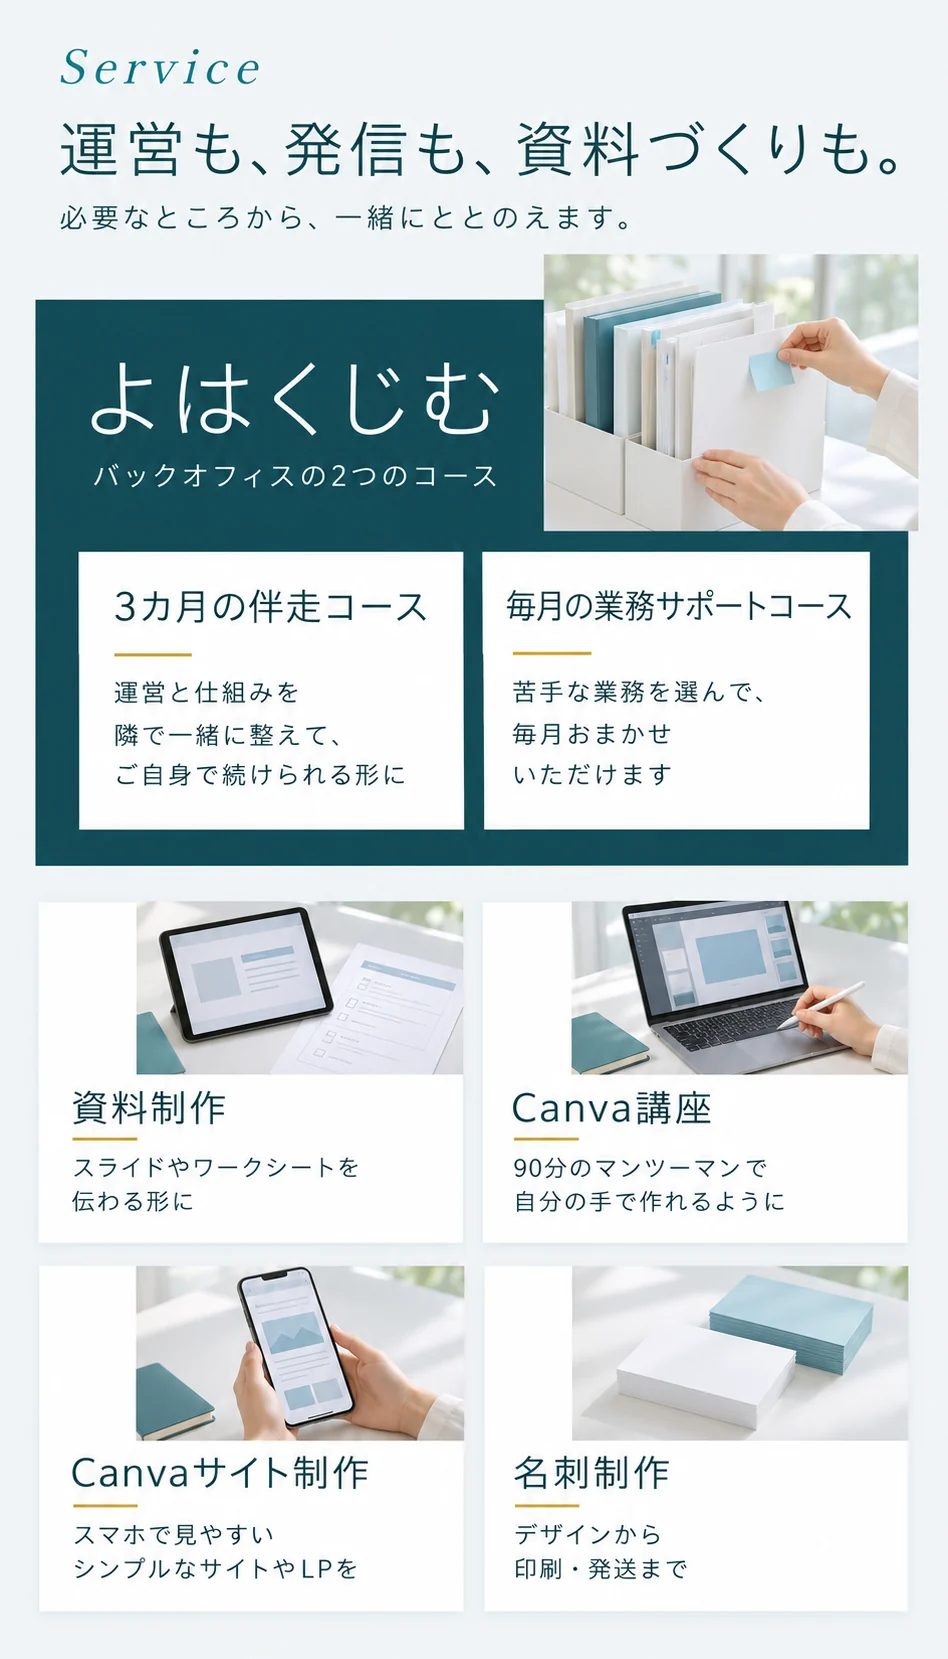
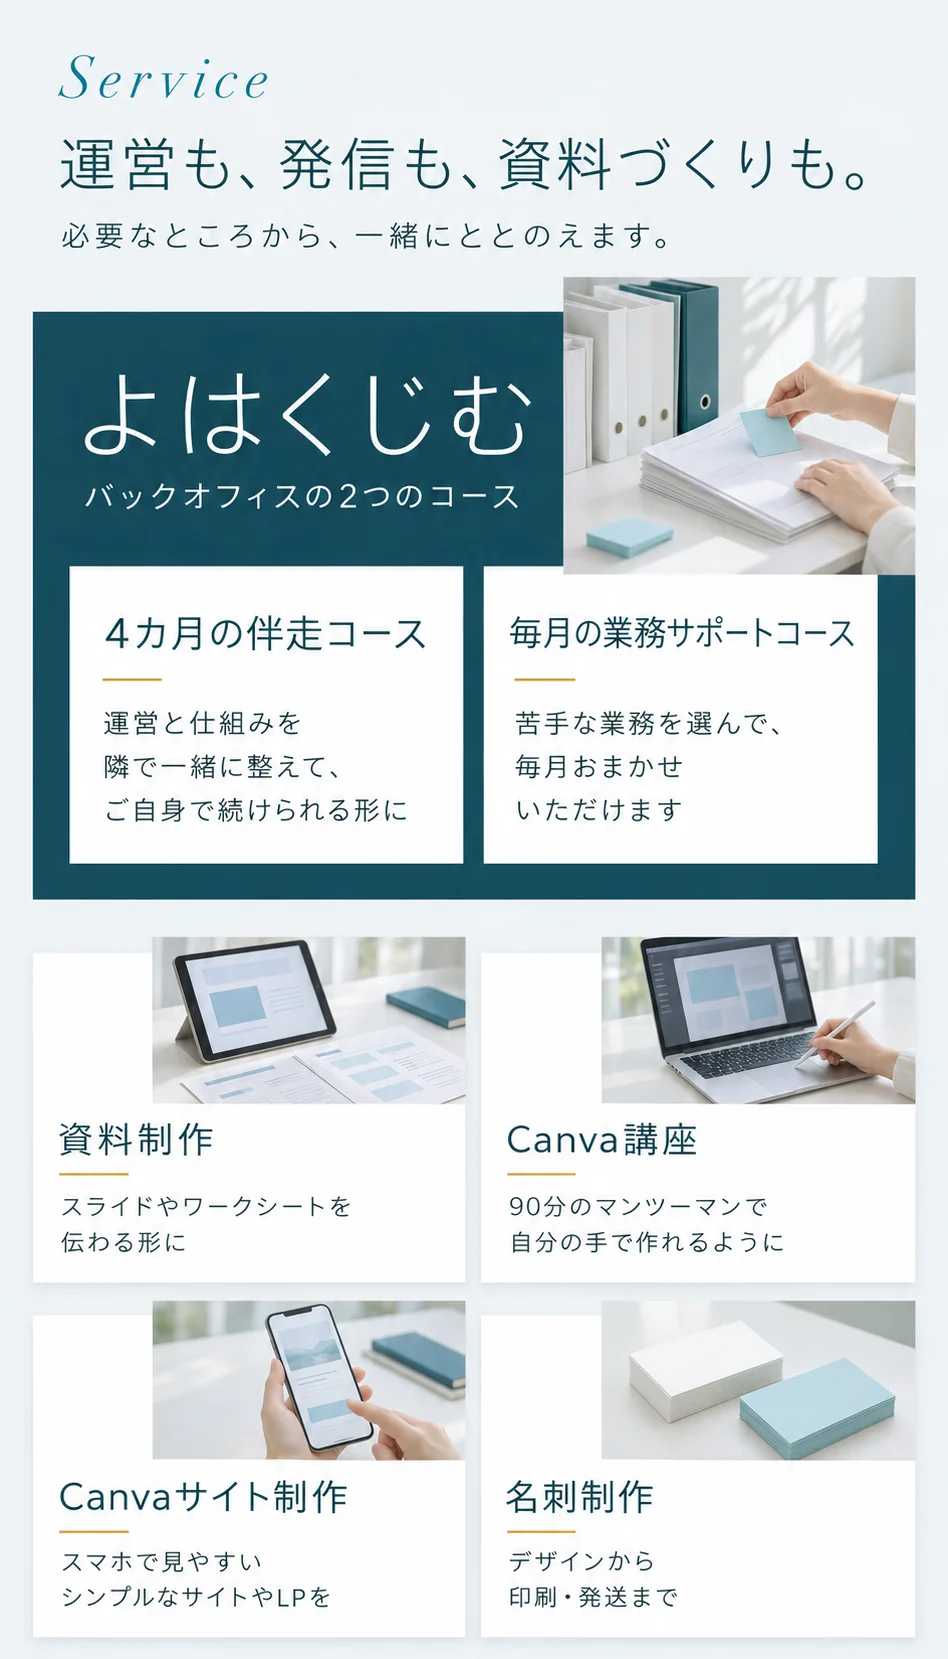
伴走コースを4カ月に変更

Changed region(s): [[0.0306, 0.0307, 0.9789, 0.9837], [0.2447, 0.7071, 0.2753, 0.7378]]

diff --git a/index.html b/index.html
@@ -28,7 +28,7 @@
   </section>
 
   <section class="part">
-    <img src="images/03-offer.webp" width="948" height="1659" loading="lazy" alt="運営も、発信も、資料づくりも。必要なところから、一緒にととのえます。よはくじむ（3カ月の伴走コース、毎月の業務サポートコース）、資料制作、Canva講座、Canvaサイト制作、名刺制作。">
+    <img src="images/03-offer.webp" width="948" height="1659" loading="lazy" alt="運営も、発信も、資料づくりも。必要なところから、一緒にととのえます。よはくじむ（4カ月の伴走コース、毎月の業務サポートコース）、資料制作、Canva講座、Canvaサイト制作、名刺制作。">
   </section>
 
   <section class="part">
@@ -36,7 +36,7 @@
   </section>
 
   <section class="part">
-    <img src="images/05-course-3months.webp" width="948" height="1911" loading="lazy" alt="よはくじむ 3カ月の伴走コース。3カ月で、ご自身で続けられる形に。代わりにやるのではなく、隣で一緒に考え、仕組みを一つずつととのえます。1カ月目：ヒアリングと、仕組み化の骨子づくり。今の運営をお伺いし、骨子をご提案します。導線、管理ボード、フォーム、発信テンプレートなどを整え始めます。2カ月目：使いながら、仕組みを育てる。実際に使っていただきながら、気になるところを整えます。3カ月目：ご自身で続けられる状態に整える。新しい仕組みは増やさず、これまでの仕組みを定着させる期間です。含まれるもの：進捗確認の打ち合わせ（月2時間まで）、運営の仕組み化の実装、操作動画・Q&Aシートの作成、最終回の振り返り面談、期間中、運営のお悩みのご相談。料金：220,000円（税込、3カ月）、モニター価格132,000円（税込、先着2名、2026年12月31日まで）。">
+    <img src="images/05-course-3months.webp" width="948" height="1911" loading="lazy" alt="よはくじむ 4カ月の伴走コース。4カ月で、ご自身で続けられる形に。代わりにやるのではなく、隣で一緒に考え、仕組みを一つずつととのえます。1カ月目：ヒアリングと、仕組み化の骨子づくり。今の運営をお伺いし、骨子をご提案します。2カ月目：仕組みを形にする。導線、管理ボード、フォーム、発信テンプレートなどを整えていきます。3カ月目：使いながら、仕組みを育てる。実際に使っていただきながら、気になるところを整えます。4カ月目：ご自身で続けられる状態に整える。新しい仕組みは増やさず、これまでの仕組みを定着させる期間です。含まれるもの：進捗確認の打ち合わせ（月2時間まで）、運営の仕組み化の実装、操作動画・Q&amp;Aシートの作成、最終回の振り返り面談、期間中、運営のお悩みのご相談。料金：220,000円（税込、4カ月）、モニター価格132,000円（税込、先着2名、2026年12月31日まで）。">
     <div class="note">
       <p class="links">
         <a class="btn" href="https://docs.google.com/forms/d/e/1FAIpQLSdDbMbdlRjtlXyKQzlLjLf8dFRbBPdSm-6Vu3bdarTvBXIwXQ/viewform?usp=dialog" target="_blank" rel="noopener">30分無料相談に申し込む</a>      </p>
